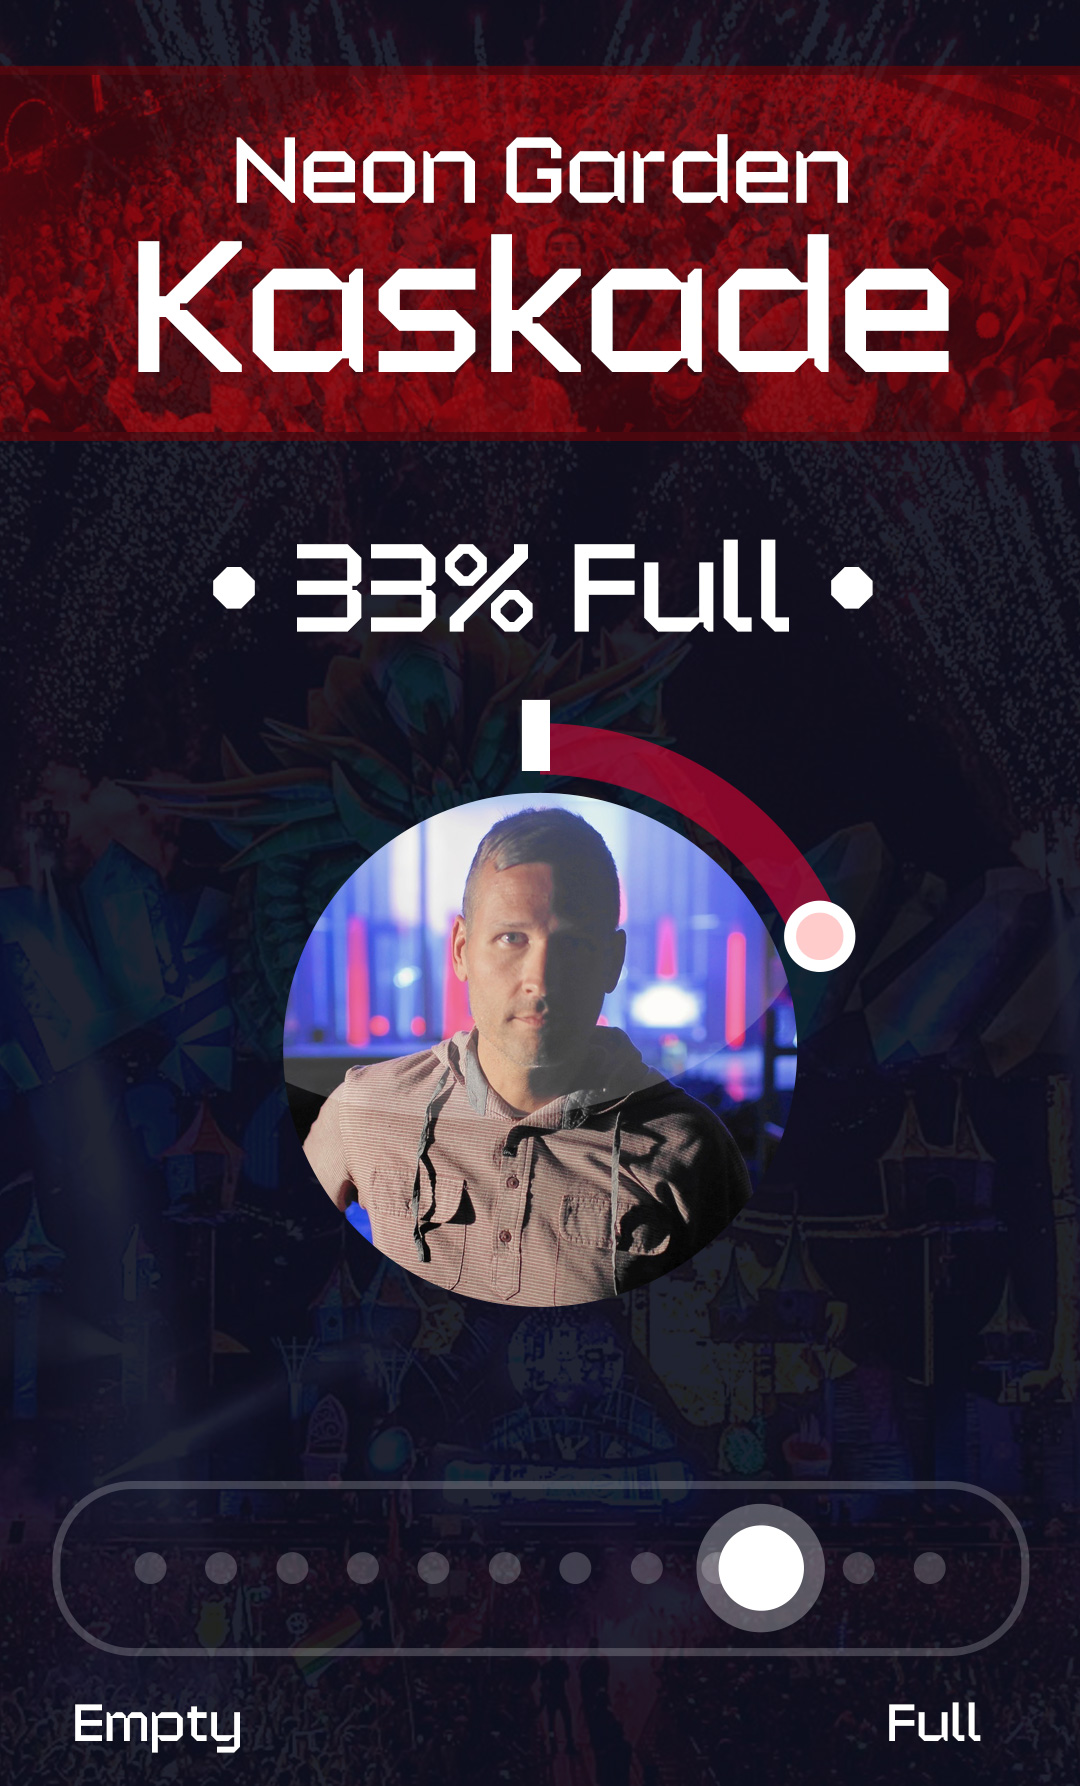
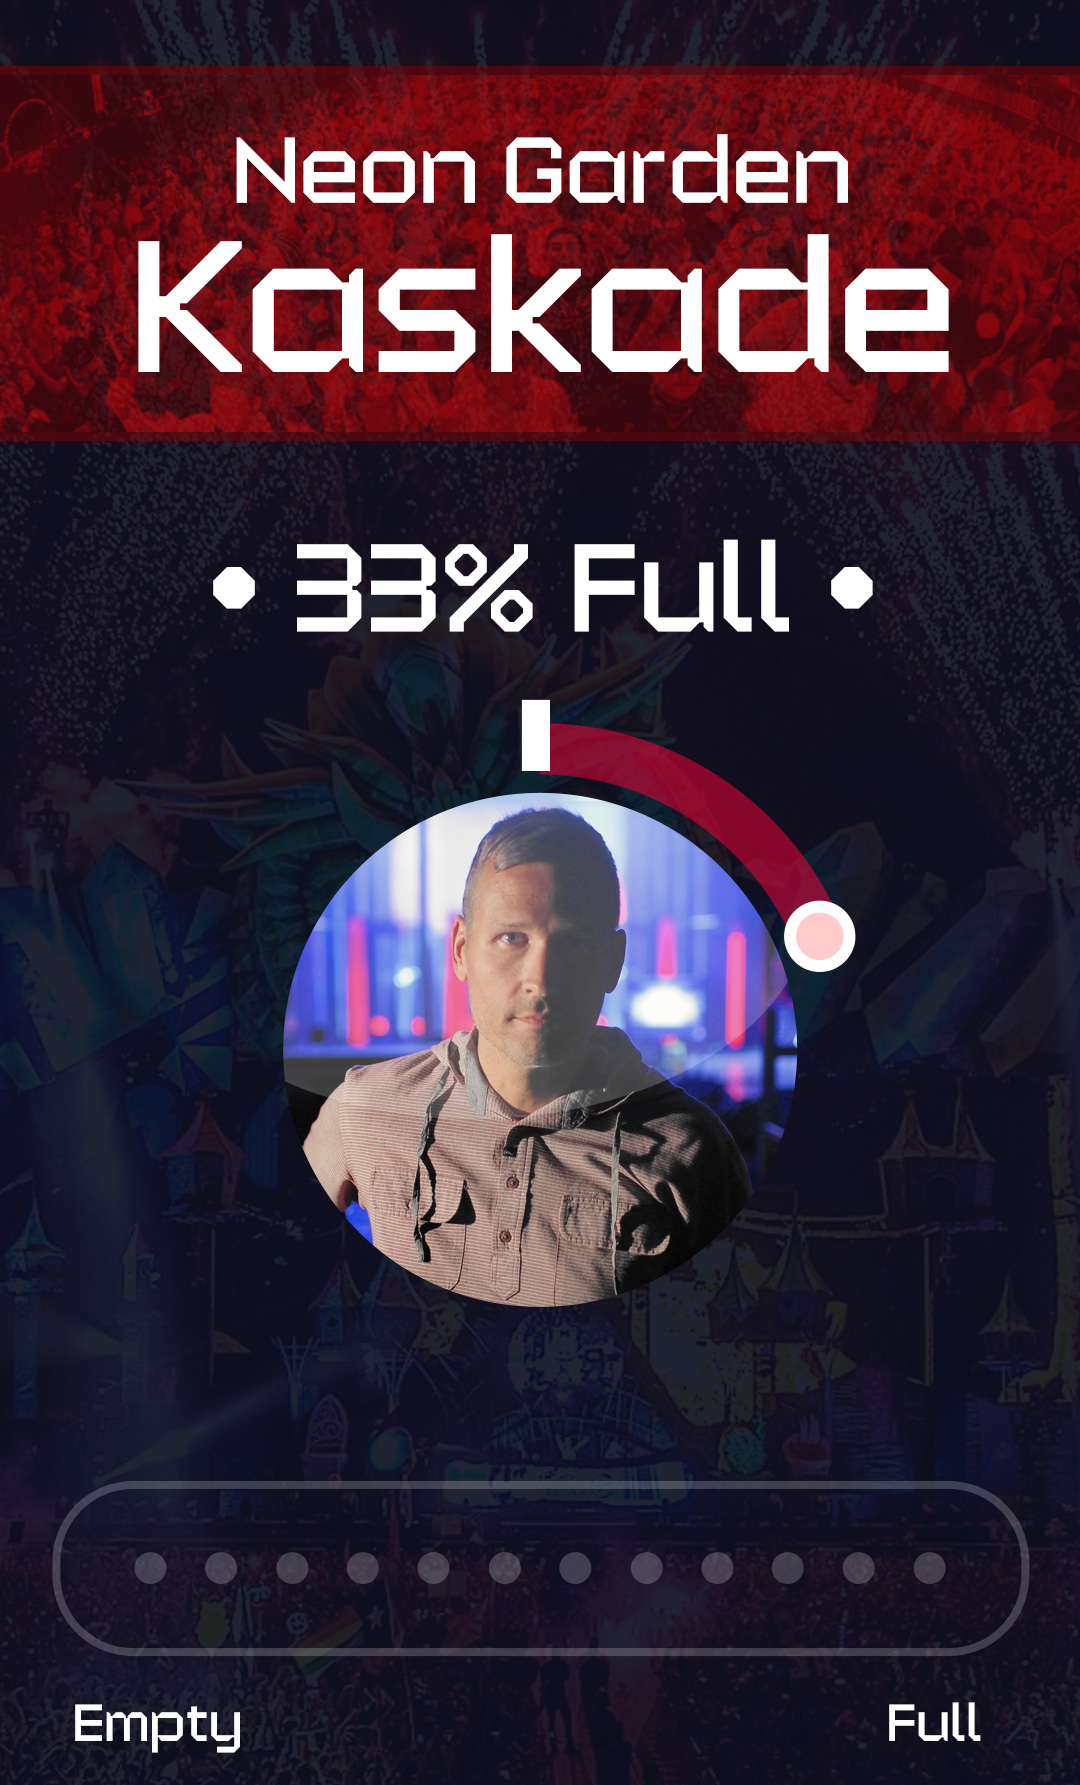
slider functionality

Changed region(s): [[0.3361, 0.6162, 0.4889, 0.7395], [0.6417, 0.8319, 0.7639, 0.9244], [0.5806, 0.6471, 0.6111, 0.6779]]

diff --git a/components/basspod.js b/components/basspod.js
@@ -1,4 +1,5 @@
 import FitImage from 'react-native-fit-image'
+import Slider from 'react-native-slider'
 import React, { Component } from 'react'
 import { AppRegistry, StyleSheet, Text, Image, View, Navigator, TouchableHighlight, ScrollView } from 'react-native'
 import styles from './styles'
@@ -6,7 +7,7 @@ import styles from './styles'
 export default class Basspod extends React.Component {
   constructor (props) {
     super(props)
-    this.state = {}
+    this.state = {tracker: 0}
   }
   navMain () {
     this.props.navigator.pop({
@@ -19,14 +20,30 @@ export default class Basspod extends React.Component {
       <View style={styles.container}>
         <ScrollView>
           <View>
-            <FitImage source={{uri: 'http://aback-ladybug.surge.sh/one_full.jpg'}} />
+            <FitImage source={{uri: 'http://tense-thunder.surge.sh/one_full.jpg'}} />
+            <Slider
+            step={.09}
+            style={styles.slide}
+            trackStyle={{opacity: 0}}
+            thumbStyle={{width: 35, height: 35, borderRadius: 50}}
+            thumbTouchSize={{width:60, height: 40}}
+            value={this.state.tracker}
+            onValueChange={(e) => {
+              console.log(e)
+
+            }}
+            thumbTintColor={'white'}/>
           </View>
+
         </ScrollView>
+
+        
         <TouchableHighlight onPress={this.navMain.bind(this)}>
           <View style={styles.goback_container}>
             <FitImage style={styles.goback} source={{uri: 'http://narrow-songs.surge.sh/go_back.png'}} />
           </View>
         </TouchableHighlight>
+
       </View>
       )
     }
@@ -36,7 +53,19 @@ export default class Basspod extends React.Component {
       <View style={styles.container}>
         <ScrollView>
           <View>
-            <FitImage source={{uri: 'http://aback-ladybug.surge.sh/two_full.jpg'}} />
+            <FitImage source={{uri: 'http://tense-thunder.surge.sh/two_full.jpg'}} />
+            <Slider
+            step={.09}
+            style={styles.slide}
+            trackStyle={{opacity: 0}}
+            thumbStyle={{width: 35, height: 35, borderRadius: 50}}
+            thumbTouchSize={{width:60, height: 40}}
+            value={this.state.tracker}
+            onValueChange={(e) => {
+              console.log(e)
+
+            }}
+            thumbTintColor={'white'}/>
           </View>
         </ScrollView>
         <TouchableHighlight onPress={this.navMain.bind(this)}>
@@ -53,7 +82,19 @@ export default class Basspod extends React.Component {
       <View style={styles.container}>
         <ScrollView>
           <View>
-            <FitImage source={{uri: 'http://aback-ladybug.surge.sh/three_full.jpg'}} />
+            <FitImage source={{uri: 'http://tense-thunder.surge.sh/three_full.jpg'}} />
+            <Slider
+            step={.09}
+            style={styles.slide}
+            trackStyle={{opacity: 0}}
+            thumbStyle={{width: 35, height: 35, borderRadius: 50}}
+            thumbTouchSize={{width:60, height: 40}}
+            value={this.state.tracker}
+            onValueChange={(e) => {
+              console.log(e)
+
+            }}
+            thumbTintColor={'white'}/>
           </View>
         </ScrollView>
         <TouchableHighlight onPress={this.navMain.bind(this)}>
@@ -70,7 +111,19 @@ export default class Basspod extends React.Component {
     <View style={styles.container}>
       <ScrollView>
         <View>
-          <FitImage source={{uri: 'http://aback-ladybug.surge.sh/stage_placeholder.jpg'}} />
+          <FitImage source={{uri: 'http://tense-thunder.surge.sh/stage_placeholder.jpg'}} />
+          <Slider
+            step={.09}
+            style={styles.slide}
+            trackStyle={{opacity: 0}}
+            thumbStyle={{width: 35, height: 35, borderRadius: 50}}
+            thumbTouchSize={{width:60, height: 40}}
+            value={this.state.tracker}
+            onValueChange={(e) => {
+              console.log(e)
+
+            }}
+            thumbTintColor={'white'}/>
         </View>
       </ScrollView>
       <TouchableHighlight onPress={this.navMain.bind(this)}>
@@ -86,6 +139,15 @@ export default class Basspod extends React.Component {
       .then(resp => resp.json())
       .then(data => {
         console.log(data)
+        if(data.value == 3) {
+          this.setState({tracker: 1})
+        }
+        if(data.value == 2) {
+          this.setState({tracker: 0.5})
+        }
+        if(data.value == 1) {
+          this.setState({tracker: 0.2})
+        }
         this.setState({ value: data.value})
       }).catch(err => {
       console.error(err)

diff --git a/components/styles.js b/components/styles.js
@@ -63,6 +63,15 @@ const styles = StyleSheet.create({
   },
   goback: {
     width: 100
+  },
+  slide: {
+    position: 'absolute',
+    width: 325,
+    marginLeft: 25,
+    marginRight: 25,
+    // height: 1,
+    top: 525,
+    // left: 0,
   }
 })
 export default styles

diff --git a/index.ios.js b/index.ios.js
@@ -137,6 +137,8 @@ class Main extends React.Component{
             </View>
           </TouchableHighlight>
 
+
+
           <TouchableHighlight onPress={this.navFood.bind(this)}>
             <View>
               <FitImage
